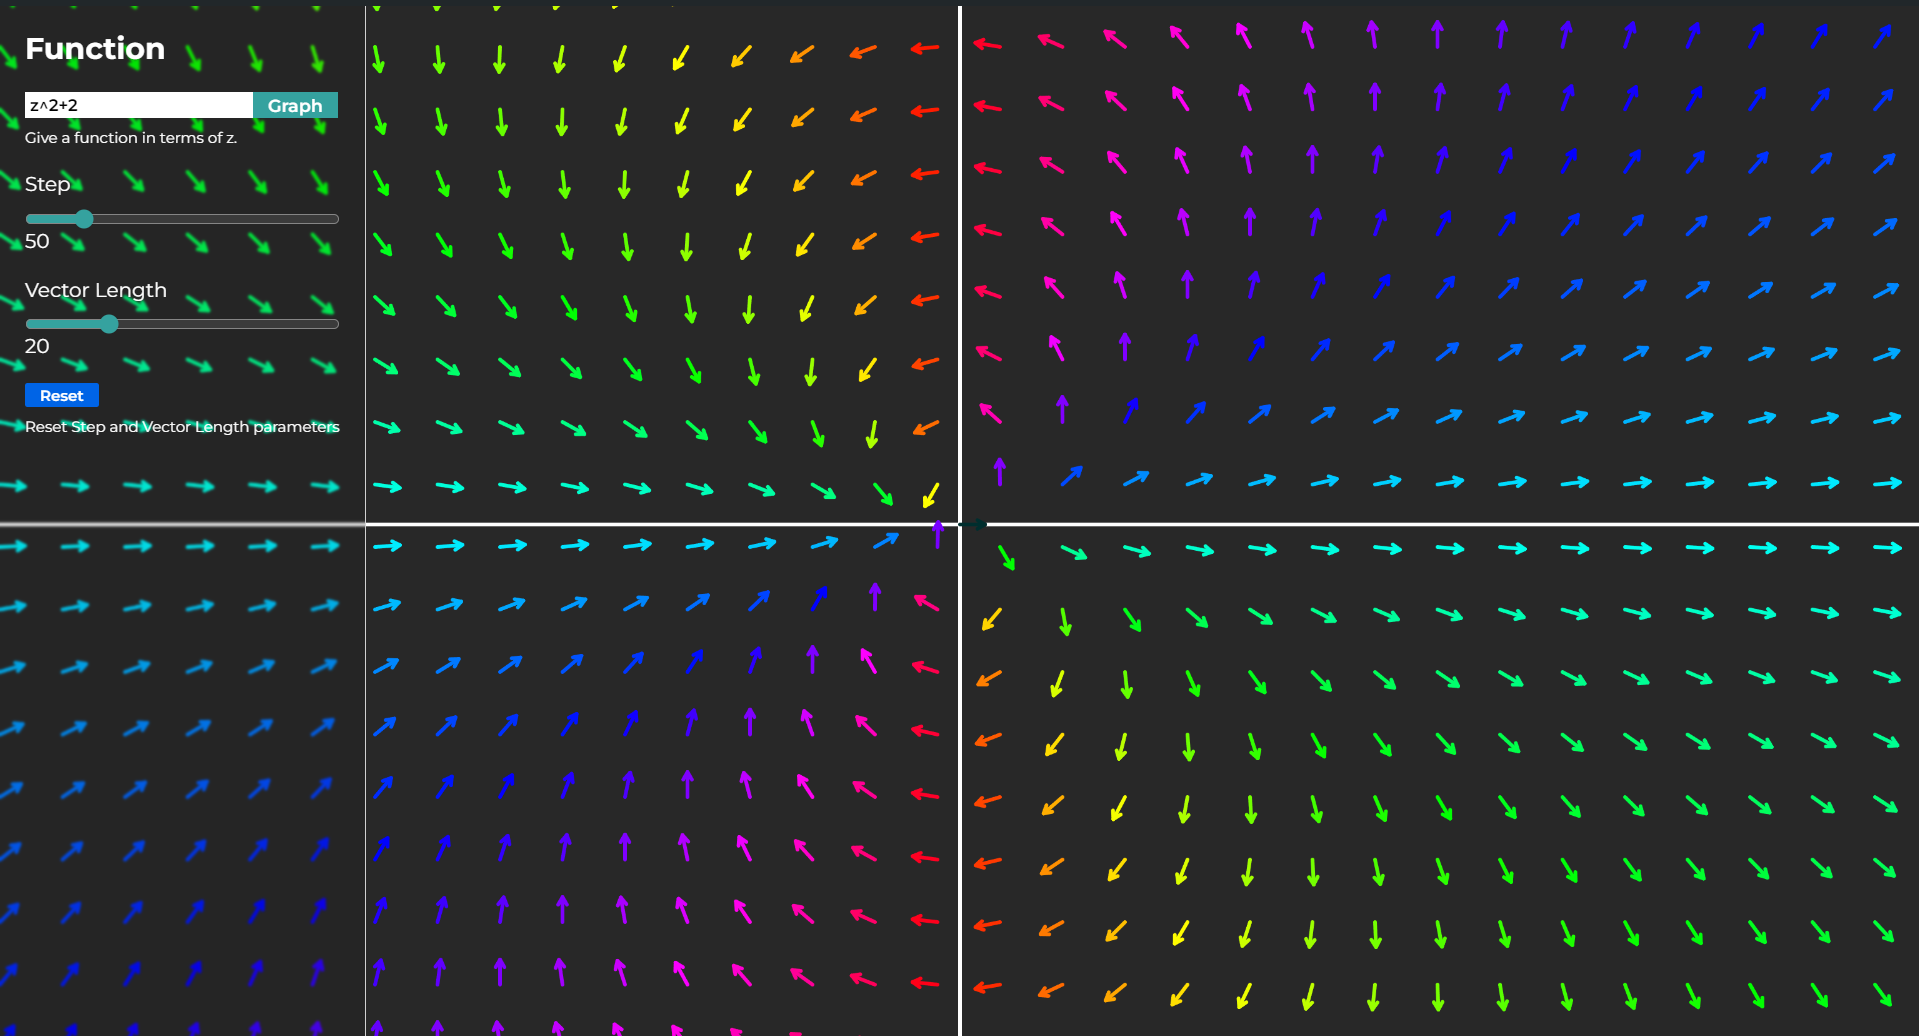
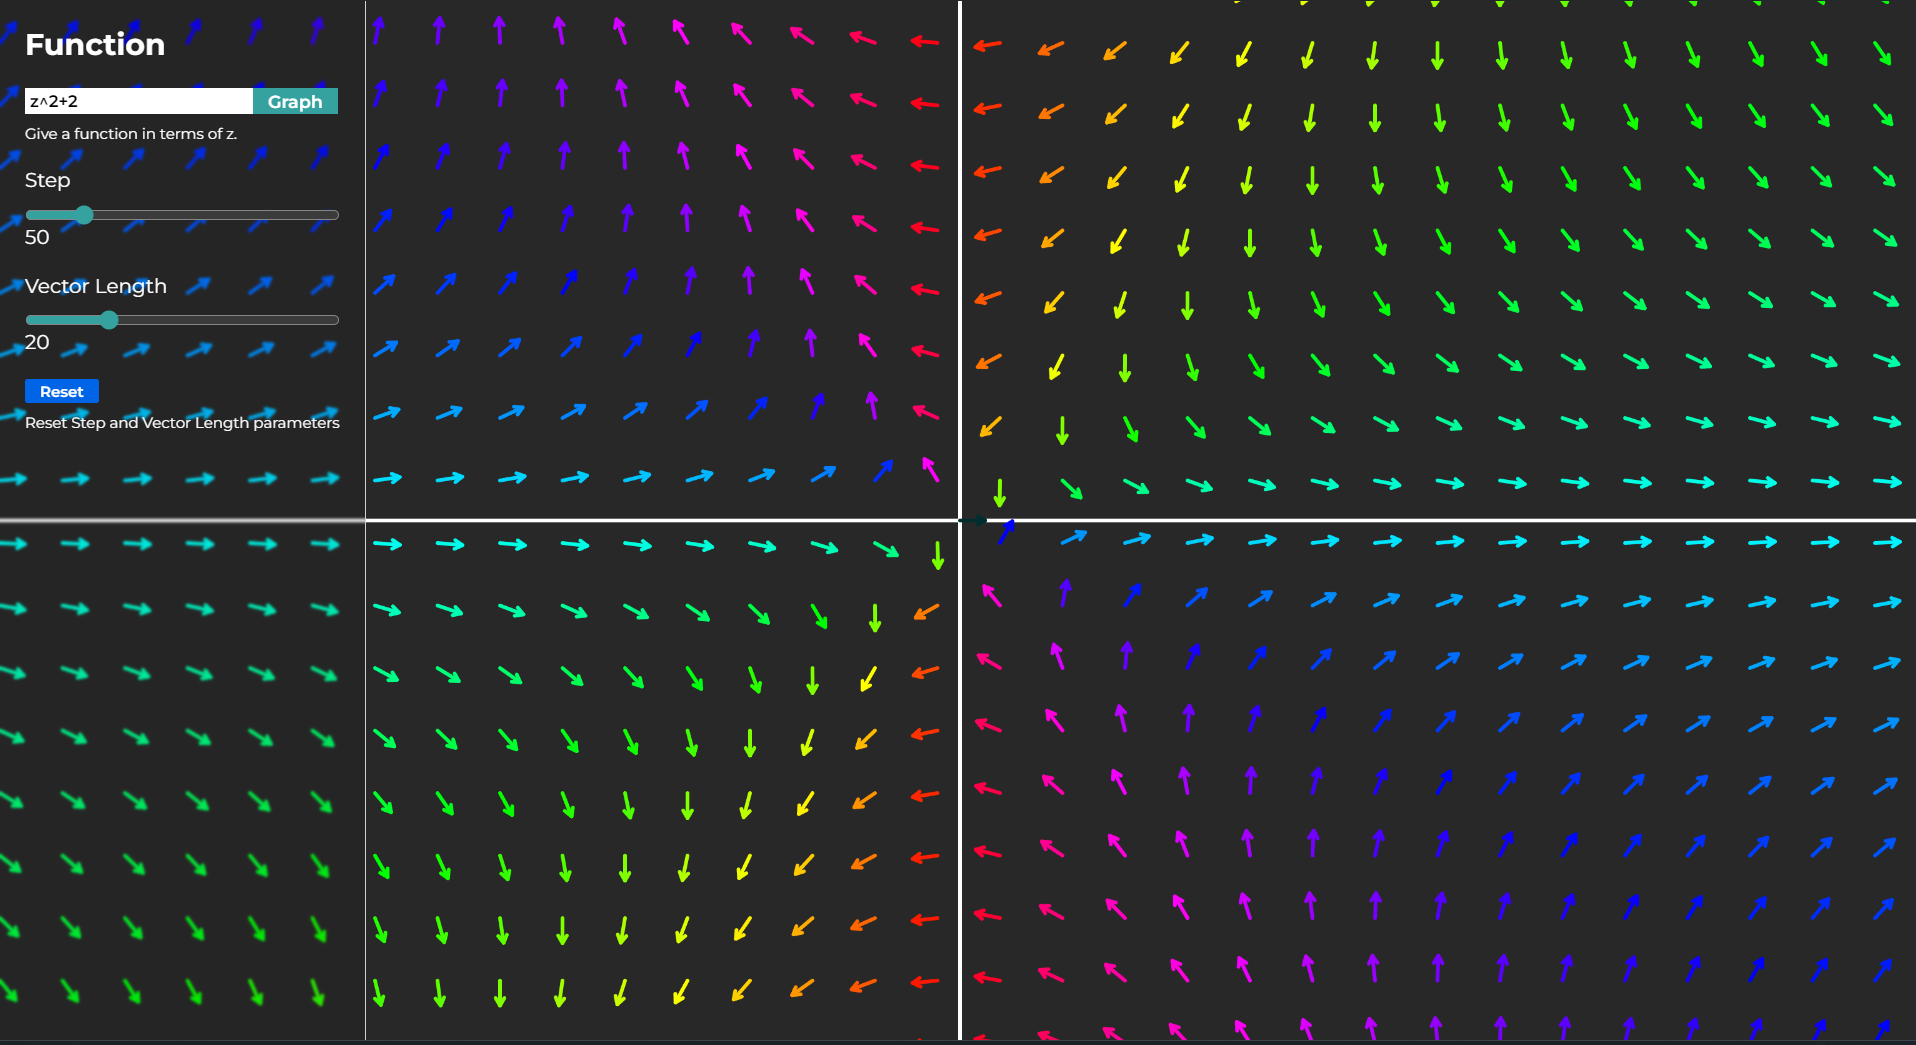
feat: 🔀 Polya vector field
- plot the conjugate of f(z)
- it represents physical flow  which is "Inviscid, Incompressible, Irrotational flow"

diff --git a/src/App.tsx b/src/App.tsx
@@ -63,7 +63,7 @@ function sketch(p5: P5CanvasInstance<MySketchProps>) {
 
                     const scope = { x: i, y: j };
                     const complexOutput: math.Complex = math.evaluate(
-                        expression.replace('z', '(x + i*y)'),
+                        expression.replace('z', '(x - i*y)'),
                         scope
                     );
                     const output = new Point(

diff --git a/README.md b/README.md
@@ -4,6 +4,16 @@
 
 ![Vector Fields](./assets/vector-fields.png)
 
+## 🍁 Features
+
+-   Graphing Calculator for Complex valued functions
+-   Vector Fields are used to represent input complex number pointing output complex number
+-   To avoid clutter, we make all vector lengths equal
+-   To represent the missing information about the length we use domain coloring
+-   In Polya vector field we plot it's conjugate instead of the given function
+-   Polya vector field represents Physical Flow
+-   It represents a is Inviscid, Incompressible, Irrotational flow
+
 ## ⚙ Technologies
 
 -   ⚛ React Js

diff --git a/notes.md b/notes.md
@@ -3,5 +3,3 @@
 -   Make particle animation
     -   consider it as a velocity field
     -   convert it into stream a plot
-    -   instead of plotting the function, plot it's conjugate (Polya vector field)
-    -   Polya vector field -> physical flow -> Inviscid, Incompressible, Irrotational flow
